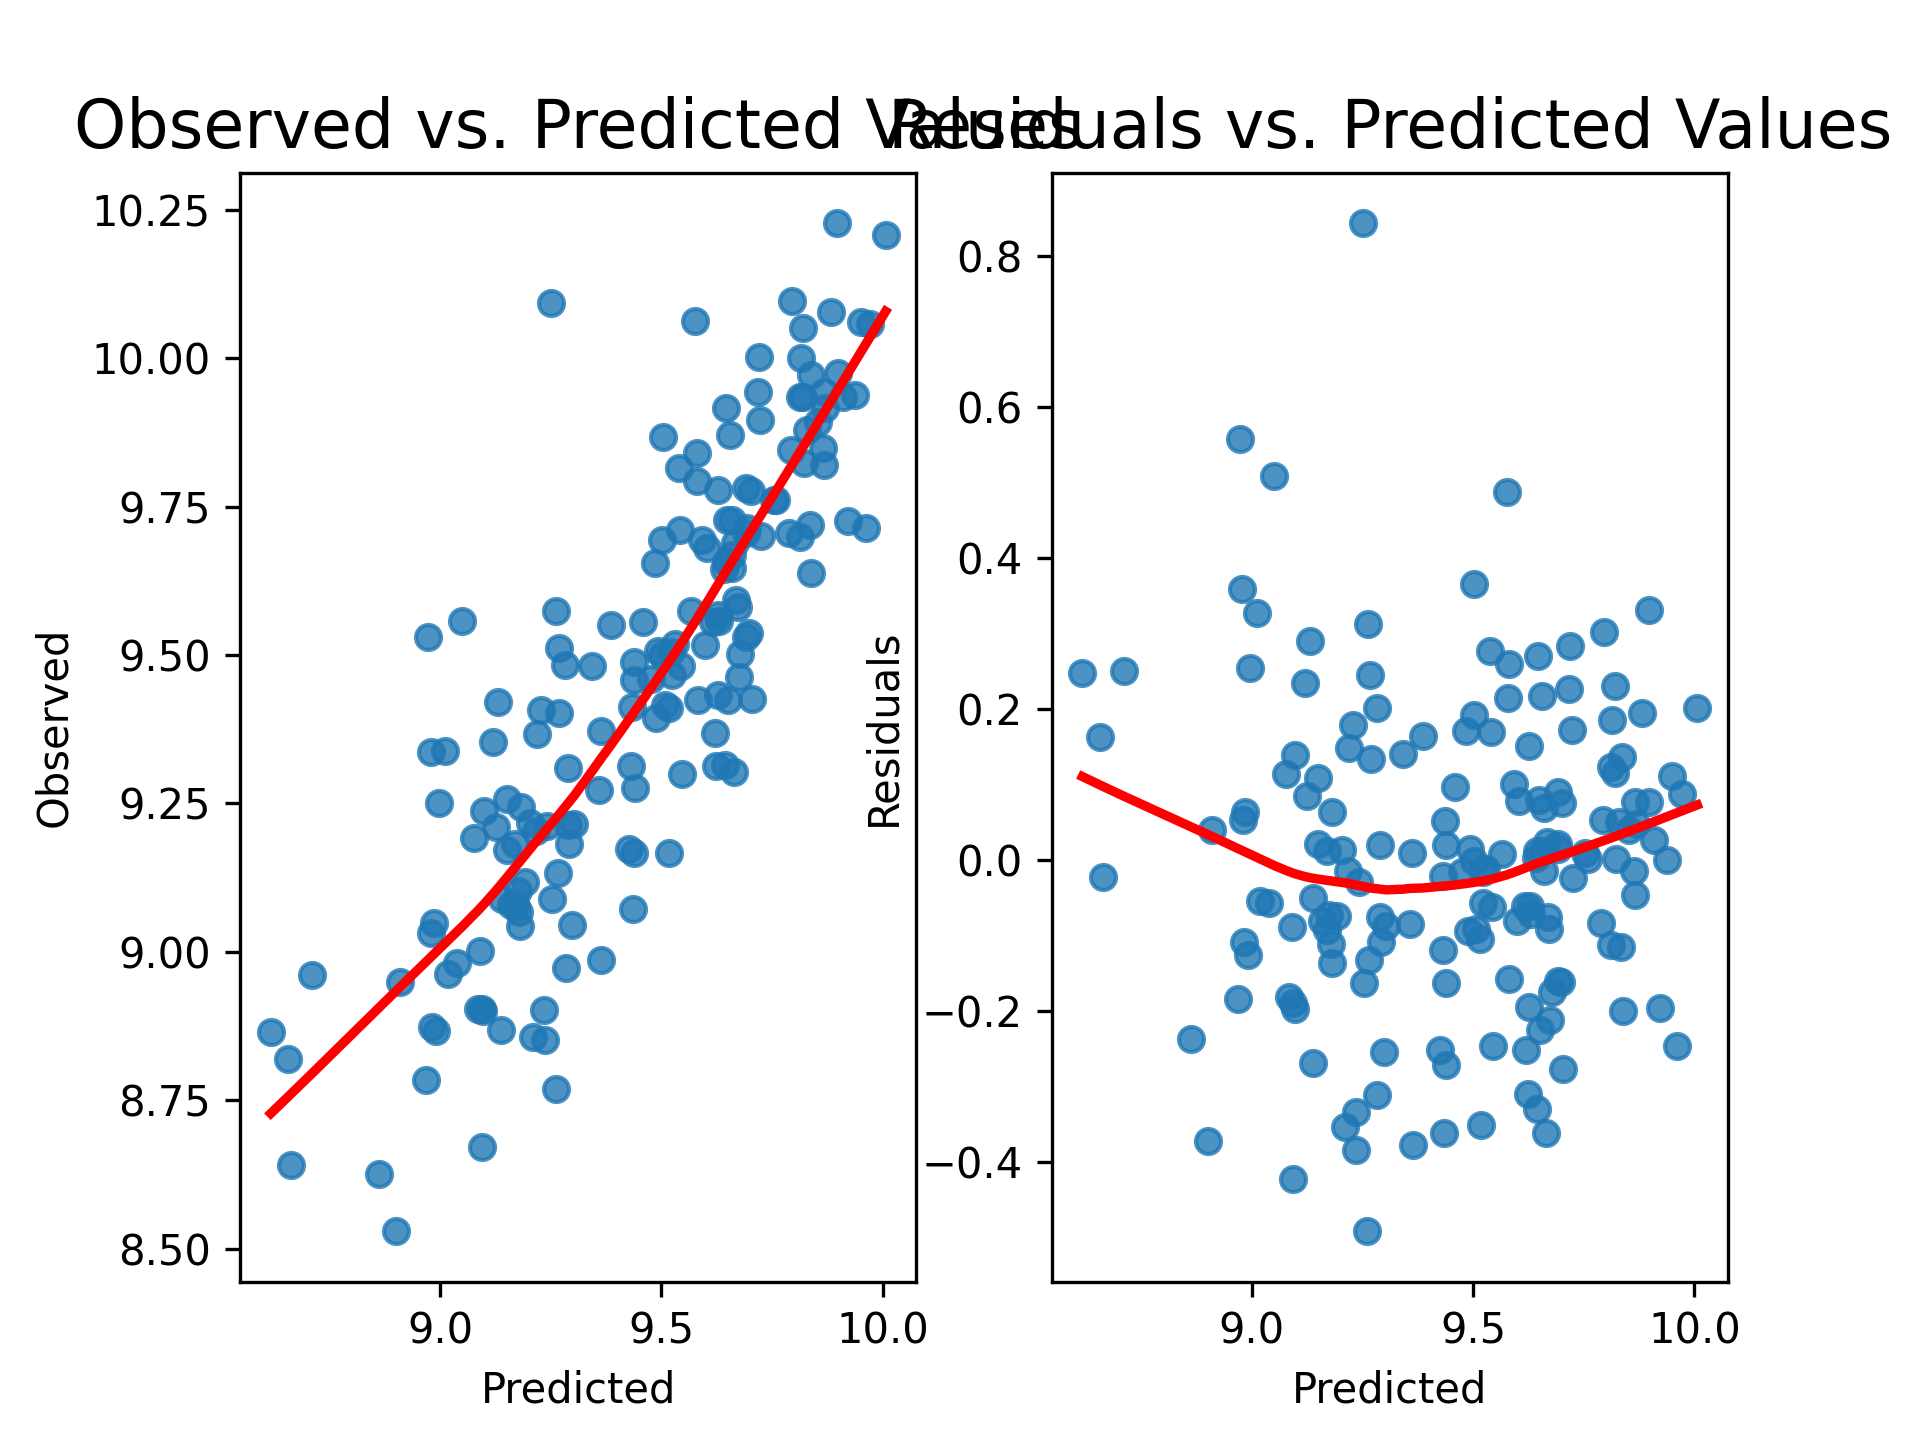
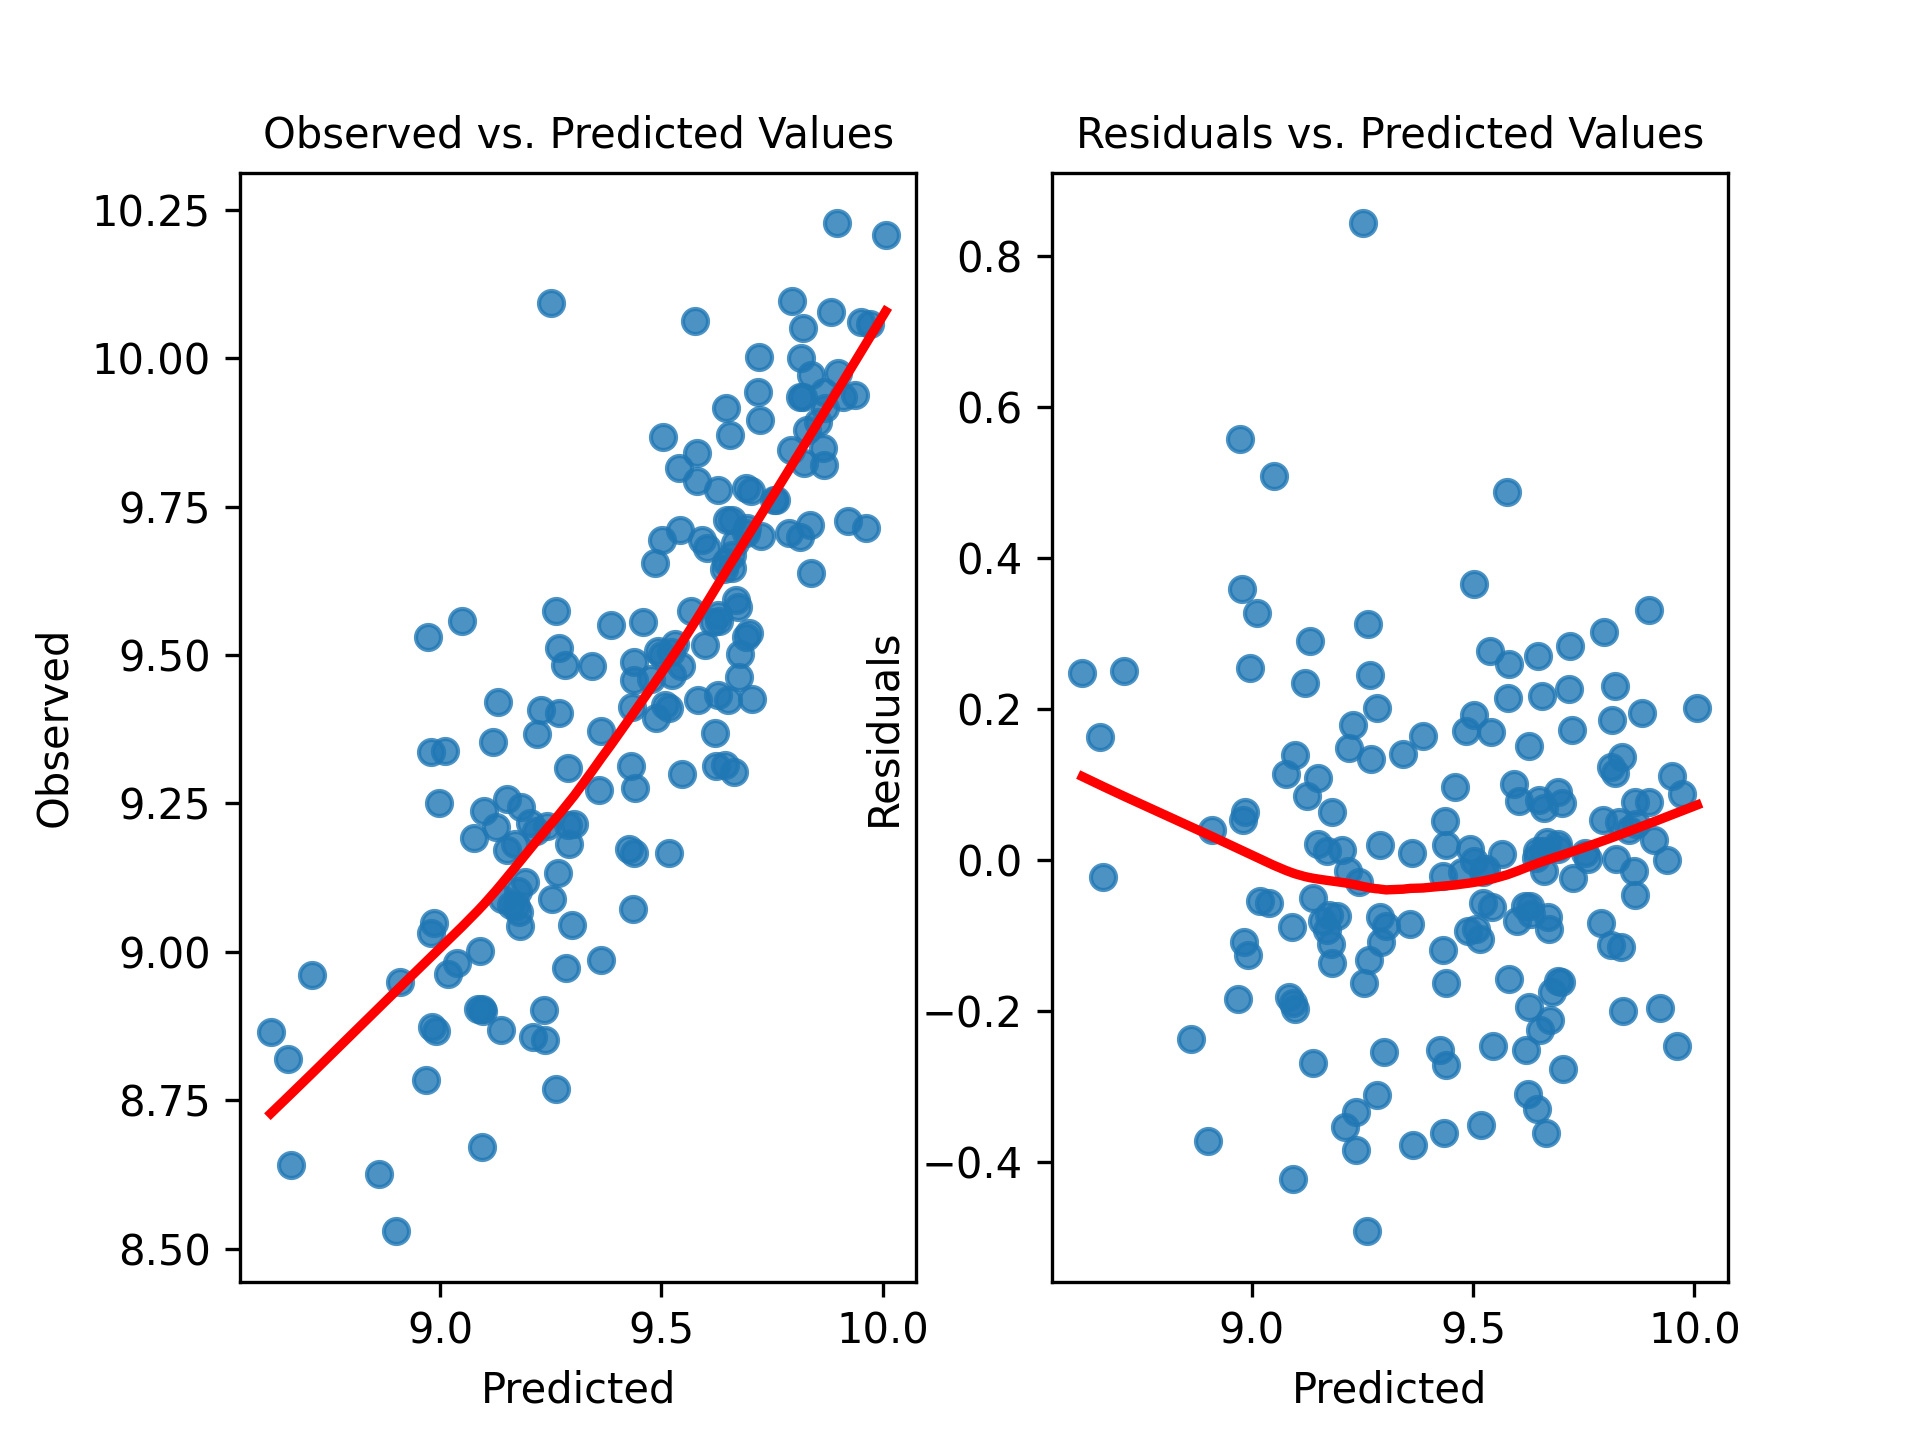
predints inv_boxcox'd

Changed region(s): [[0.0312, 0.0625, 1.0, 0.125]]

diff --git a/DASC512/final.py b/DASC512/final.py
@@ -11,6 +11,7 @@ import statsmodels.tsa.api as smt
 from patsy import dmatrices
 from sklearn.linear_model import LinearRegression
 from sklearn.feature_selection import VarianceThreshold
+from scipy.special import inv_boxcox
 from statsmodels.stats.outliers_influence import variance_inflation_factor
 from sklearn.model_selection import train_test_split
 from sklearn.metrics import mean_squared_error
@@ -19,32 +20,6 @@ import warnings
 
 warnings.simplefilter(action="ignore", category=SettingWithCopyWarning)
 
-# Read the data 
-data = pd.read_csv("./DASC512/student_data.csv", sep = ',')
-# print(data)
-
-# explore data.
-# data.info()
-
-# subset trng data to only data with Y values => first 456 records
-trng_data = data[:456]
-# subset_data.info()
-
-# create the training data
-x_columns = ['X1','X2','X3','X4','X5','X6','X7','X8','X9','X10','X11','X12','X1*X5','X4*X5','X5*X6','X5*X8']
-x = trng_data[x_columns]
-# fig = sns.pairplot(y)
-# skewed right Y so transform
-trng_data['tY'], boxlambda = stats.boxcox(trng_data['Y'])
-# print(trng_data['tY'])
-ty = pd.DataFrame(trng_data['tY'])
-# fig = sns.pairplot(ty)
-
-trng_data = x.assign(tY=ty['tY']) 
-y_column = ['tY']
-y = trng_data[y_column]
-
-## creating function to get model statistics
 def get_model_stats():
     x = trng_data[x_columns]
     results = sm.OLS(y, x).fit()
@@ -65,11 +40,11 @@ def linearity_test(model, y):
     fig, ax = plt.subplots(1, 2)
 
     sns.regplot(x=fitted_vals, y=y, lowess=True, ax=ax[0], line_kws={'color': 'red'})
-    ax[0].set_title('Observed vs. Predicted Values', fontsize=16)
+    ax[0].set_title('Observed vs. Predicted Values', fontsize=10)
     ax[0].set(xlabel='Predicted', ylabel='Observed')
 
     sns.regplot(x=fitted_vals, y=resids, lowess=True, ax=ax[1], line_kws={'color': 'red'})
-    ax[1].set_title('Residuals vs. Predicted Values', fontsize=16)
+    ax[1].set_title('Residuals vs. Predicted Values', fontsize=10)
     ax[1].set(xlabel='Predicted', ylabel='Residuals')
     fig.show()
     fig.savefig('./DASC512/finalLinearityTest.png', dpi=300)
@@ -88,11 +63,11 @@ def homoscedasticity_test(model):
     fig, ax = plt.subplots(1, 2)
 
     sns.regplot(x=fitted_vals, y=resids, lowess=True, ax=ax[0], line_kws={'color': 'red'})
-    ax[0].set_title('Residuals vs Fitted', fontsize=16)
+    ax[0].set_title('Residuals vs Fitted', fontsize=10)
     ax[0].set(xlabel='Fitted Values', ylabel='Residuals')
 
     sns.regplot(x=fitted_vals, y=np.sqrt(np.abs(resids_standardized)), lowess=True, ax=ax[1], line_kws={'color': 'red'})
-    ax[1].set_title('Scale-Location', fontsize=16)
+    ax[1].set_title('Scale-Location', fontsize=10)
     ax[1].set(xlabel='Fitted Values', ylabel='sqrt(abs(Residuals))')
     fig.savefig('./DASC512/finalHomoscedasticityTest.png', dpi=300)
     fig.show()
@@ -150,6 +125,31 @@ def calculate_rmse(model, X_test, y_test):
     MSE = mean_squared_error(y_test, predicted)
     rmse = np.sqrt(MSE)
     print(rmse)
+
+# Read the data 
+data = pd.read_csv("./DASC512/student_data.csv", sep = ',')
+# print(data)
+
+# explore data.
+# data.info()
+
+# subset trng data to only data with Y values => first 456 records
+trng_data = data[:456]
+# subset_data.info()
+
+# create the training data
+x_columns = ['X1','X2','X3','X4','X5','X6','X7','X8','X9','X10','X11','X12','X1*X5','X4*X5','X5*X6','X5*X8']
+x = trng_data[x_columns]
+# fig = sns.pairplot(y)
+# skewed right Y so transform
+trng_data['tY'], boxlambda = stats.boxcox(trng_data['Y'])
+# print(trng_data['tY'])
+ty = pd.DataFrame(trng_data['tY'])
+# fig = sns.pairplot(ty)
+
+trng_data = x.assign(tY=ty['tY']) 
+y_column = ['tY']
+y = trng_data[y_column]
 
 # remove features w/ variance < 30% => features which mostly remain at the same level 
 # across different observations, should not ideally be responsible for differing responses in the observations.   
@@ -220,7 +220,6 @@ y = trng_data['tY']
 
 # fig.savefig('FinalPairPlot_x.png', dpi=300)
 
-
 # remove the least statistically significant features(s) i.e. pval > 0.05
 x_columns.remove('X12') # pval 0.9639 
 x_columns.remove('X3') # pval 0.5286
@@ -235,18 +234,16 @@ x_columns.remove('X7') # pval 0.0232
 
 # fig = sns.pairplot(x)
 
-#TODO Skewdness ??
-# trng_data['X11'].hist()
 x = trng_data[x_columns]
 y = trng_data['tY']
 
-model_median_value = sm.OLS(y, x).fit()
+# model_median_value = sm.OLS(y, x).fit()
 
 y, X = dmatrices('tY ~ X5+X6+X11+Q("X1*X5")+Q("X5*X8")', data = trng_data, return_type ='dataframe')
 X_train, X_test, y_train, y_test = train_test_split(X, y, test_size = 50, random_state = 42)
 # med_val_test = X_test
 # med_val_test['Y'] = y_test
-print(model_median_value.summary2(alpha=0.05))
+# print(model_median_value.summary2(alpha=0.05))
 vif = pd.DataFrame()
 vif["VIF Factor"] = [variance_inflation_factor(X.values, i) for i in range(X.shape[1])]
 vif["features"] = X.columns
@@ -311,9 +308,10 @@ print('median_value = ' + str(A) + ' + ' + str(X5) + ' + ' + str(X6) +
 fig, ax = plt.subplots(figsize=(10,6))
 fig.suptitle('Median Value Owner-Occupied Homes Test/Train Prediction Plot')
 fig.tight_layout(pad=3)
-
+plt.xlabel('Median Value (Test)', fontsize=10)
+plt.ylabel('Median Value (Predict)', fontsize=10)
 # subset our test data to align with our model
-test_data = data.loc[456:506, data.columns.isin(['Y', 'X5', 'X6', 'X11', 'X1*X5', 'X5*X8'])]
+test_data = data.loc[456:, data.columns.isin(['Y', 'X5', 'X6', 'X11', 'X1*X5', 'X5*X8'])]
 # print(test_data)
 X = test_data.loc[:, test_data.columns != 'Y']
 y = test_data.loc[:, test_data.columns == 'Y']
@@ -324,14 +322,21 @@ X=sm.add_constant(X)
 
 # test_model = sm.OLS(y,X).fit()
 y_pred = lin_reg.predict(X)
-print(y_pred)
+# print(y_pred)
 y_pred_df = pd.DataFrame(y_pred)
-# print(y_pred_df)
-sns.regplot(x=y_test,y=y_pred_df,ci=95,marker='o',color ='blue')
+y_test_inv_boxcox = inv_boxcox(y_test, boxlambda)
+y_pred_inv_boxcox = inv_boxcox(y_pred_df, boxlambda)
+print(y_pred_inv_boxcox)
+sns.regplot(x=y_test_inv_boxcox,y=y_pred_inv_boxcox,ci=95,marker='o',color ='blue')
 ax.grid()
 fig.savefig('./DASC512/finalPredictionPlot.png', dpi=300)
 
 #calculate prediction intervals
-prediction=lin_reg.get_prediction(test_data)
+prediction=lin_reg.get_prediction(X)
 predints=prediction.summary_frame(alpha=0.05)
-# print(predints)
+print(inv_boxcox(predints['obs_ci_lower'], boxlambda))
+print(inv_boxcox(predints['obs_ci_upper'], boxlambda))
+print(predints)
+
+#TODO: Put the final prints into a dataframe => 
+# Census Tract’, ‘Prediction’, ‘Lower Prediction CI’, ‘Upper Prediction CI
